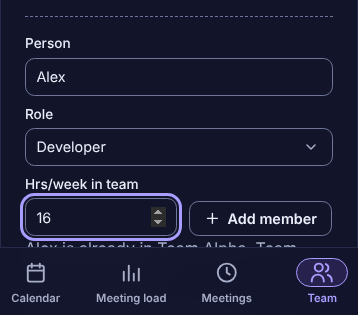
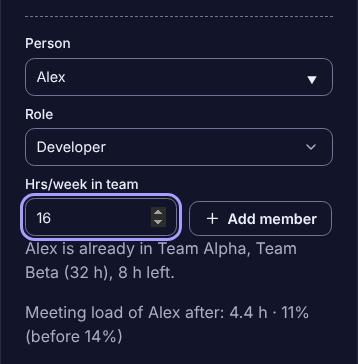
Address review: preview for unassigned people, capped base in role tile help, phone shots
- The add-member form also shows the after figure for a known person in no
  team yet; the before figure is computed once.
- help.calc.base (de/en) states the capped base for a chosen person.
- Phone PNGs show the preview above the bottom bar.

diff --git a/src/ui/views/TeamView.svelte b/src/ui/views/TeamView.svelte
@@ -68,10 +68,14 @@
   const roleChoice = $derived(roles.some((r) => r.id === addRole) ? addRole : (roles[0]?.id ?? ''));
   /** People who are not in this team yet, offered while typing a name. */
   const others = $derived(people.filter((p) => !grouped.some((g) => g.personId === p.id)));
+  /** A known person typed in the form, not in this team yet. */
+  const typed = $derived.by(() => {
+    const key = addName.trim().toLowerCase();
+    return others.find((p) => p.name.trim().toLowerCase() === key);
+  });
   /** The typed person already works in another team or area: their hours left fill the field. */
   const elsewhere = $derived.by(() => {
-    const key = addName.trim().toLowerCase();
-    const person = others.find((p) => p.name.trim().toLowerCase() === key);
+    const person = typed;
     const places = person ? placesOf($workspace, person.id) : [];
     if (!person || places.length === 0) return null;
     return {
@@ -85,21 +89,24 @@
 
   /**
    * What adding them does to their meeting load (#342): their average meeting hours per week and
-   * share, measured like the people table, before and after.
+   * share, measured like the people table, after and, for someone who works elsewhere, before.
+   * The hours are those the form would save.
    */
+  const before = $derived(
+    typed && elsewhere ? personLoad($workspace, loadPerWeek($workspace, $index), typed.id) : null,
+  );
   const preview = $derived.by(() => {
-    if (!team || !elsewhere || roleChoice === '') return null;
-    const h = addHours ?? elsewhere.left;
-    if (!Number.isFinite(h) || h < 0) return null;
-    const { id: personId } = elsewhere;
-    const ws = $workspace;
-    const next = updateTeam(ws, team.id, {
+    if (!team || !typed || roleChoice === '') return null;
+    const h = addHours ?? elsewhere?.left ?? null;
+    if (h !== null && (!Number.isFinite(h) || h < 0)) return null;
+    const personId = typed.id;
+    const next = updateTeam($workspace, team.id, {
       members: [...team.members, { personId, roleId: roleChoice }],
-      memberHours: withHours(team.memberHours, personId, h),
+      memberHours: h === null ? team.memberHours : withHours(team.memberHours, personId, h),
     });
     if (!next.ok) return null;
     return {
-      before: personLoad(ws, loadPerWeek(ws, $index), personId),
+      name: typed.name,
       after: personLoad(next.value, loadPerWeek(next.value, $index), personId),
     };
   });
@@ -451,9 +458,9 @@
                   step="0.5"
                   placeholder={String(defaultHours)}
                   value={addHours ?? elsewhere?.left ?? ''}
-                  aria-describedby={elsewhere
-                    ? [`${uid}-elsewhere`, preview && `${uid}-preview`].filter(Boolean).join(' ')
-                    : undefined}
+                  aria-describedby={[elsewhere && `${uid}-elsewhere`, preview && `${uid}-preview`]
+                    .filter(Boolean)
+                    .join(' ') || undefined}
                   oninput={(e) => {
                     const v = e.currentTarget.value;
                     addHours = v.trim() === '' ? null : Number(v);
@@ -474,16 +481,21 @@
                 })}
                 {#if elsewhere.left === 0}{$t('team.people.noneLeft')}{/if}
               </p>
-              {#if preview}
-                <p class="hint" id="{uid}-preview" data-member-preview data-no-present>
-                  {$t('team.members.preview', {
-                    name: elsewhere.name,
-                    hours: formatNumber($locale, preview.after.hours, 1),
-                    share: formatPercent($locale, preview.after.share),
-                    before: formatPercent($locale, preview.before.share),
-                  })}
-                </p>
-              {/if}
+            {/if}
+            {#if preview}
+              {@const after = {
+                name: preview.name,
+                hours: formatNumber($locale, preview.after.hours, 1),
+                share: formatPercent($locale, preview.after.share),
+              }}
+              <p class="hint" id="{uid}-preview" data-member-preview data-no-present>
+                {before
+                  ? $t('team.members.preview', {
+                      ...after,
+                      before: formatPercent($locale, before.share),
+                    })
+                  : $t('team.members.previewNew', after)}
+              </p>
             {/if}
             {@render err('member-add')}
           {/if}

diff --git a/tests/e2e/split-people.spec.ts b/tests/e2e/split-people.spec.ts
@@ -193,6 +193,14 @@ test('the add-member form shows the meeting load before and after (#342)', async
   await team.getByRole('button', { name: 'Add member' }).click();
   await expect(preview).toHaveCount(0);
 
+  // Someone in no team yet has no "before".
+  await openPeoplePool(page);
+  await team.getByLabel('New person name').fill('Noa');
+  await team.getByLabel('New person name').press('Enter');
+  await team.getByLabel('Person', { exact: true }).fill('Noa');
+  await expect(preview).toHaveText('Meeting load of Noa after: 0.0 h · 0%');
+  await team.getByLabel('Person', { exact: true }).fill('');
+
   await page.getByRole('tab', { name: 'Meeting load', exact: true }).click();
   const load = page.getByRole('tabpanel', { name: 'Meeting load' });
   const row = load.locator('tr[data-person]').filter({ hasText: 'Alex' });

diff --git a/src/ui/views/LoadView.svelte b/src/ui/views/LoadView.svelte
@@ -60,7 +60,8 @@
 
   /**
    * Each person is judged on all their meetings ÷ their hours in all their teams and areas, at
-   * most the Settings weekly hours, in every scope (#273, #342); with a team or area filter `here` keeps their part in it.
+   * most the Settings weekly hours, in every scope (#273, #342); with a team or area filter
+   * `here` keeps their part in it.
    */
   const perPerson = $derived(
     people.map((person) => {
